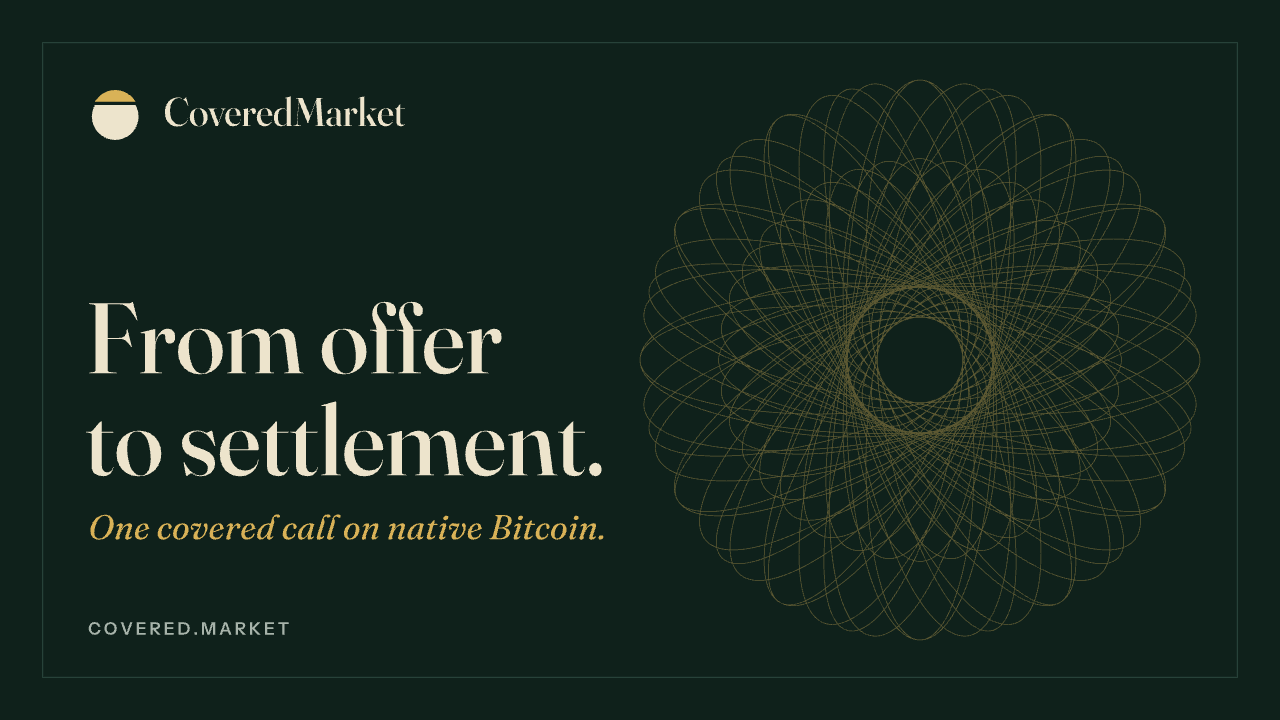
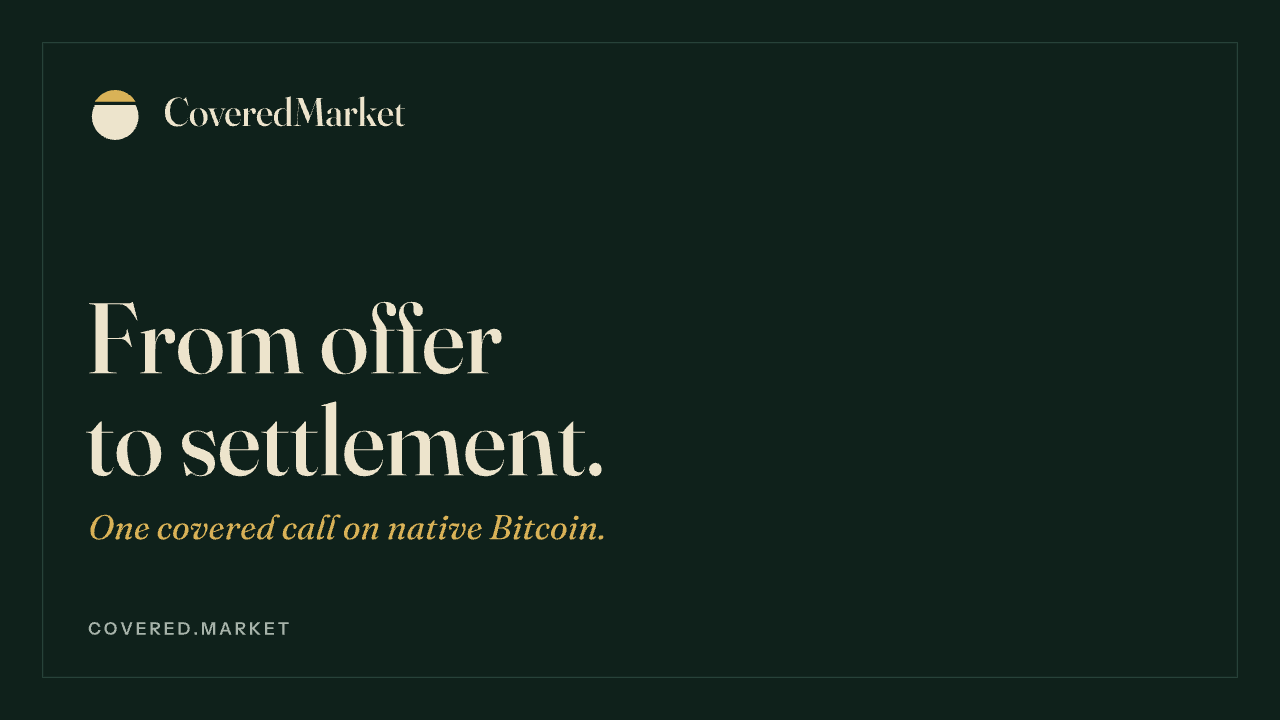
Landing: the rosette moves from the film poster to the page
The rosette is now the page's brand mark: whole and faint in the hero's top-right corner, behind the content
and inside the hero at every width. The film's poster on the page is the new plain version
(video-poster-plain, generated alongside the full one), so the rosette is not shown twice; the full poster
stays the video's thumbnail. The play button keeps its place, where the full poster's rosette has its eye.

diff --git a/web/src/landing.css b/web/src/landing.css
@@ -60,8 +60,8 @@
 .ld-hero-film { position: relative; margin: 0; min-width: 0; }
 .ld-hero-film > figcaption { position: absolute; top: 100%; left: 0; right: 0; margin-top: 12px; }
 
-/* film: the hero's player (HeroFilm). The poster is brand/assets/Social/video-poster (also the video's thumbnail);
-   the play button sits in its rosette's eye, at POSTER_EYE in gen_assets.py. */
+/* film: the hero's player (HeroFilm). The poster is brand/assets/Social/video-poster-plain; the play button sits
+   where the full poster's rosette has its eye (POSTER_EYE in gen_assets.py), so both versions share one layout. */
 .ld-film { position: relative; aspect-ratio: 16 / 9; background: #0f211b; overflow: hidden; box-shadow: 0 24px 48px -24px #132a2399; }
 .ld-film > img { position: absolute; inset: 0; width: 100%; height: 100%; display: block; }
 .ld-film iframe { position: absolute; inset: 0; width: 100%; height: 100%; border: 0; display: block; }
@@ -200,3 +200,8 @@ button.ld-play:focus-visible { outline: 2px solid #d9b257; outline-offset: 4px; 
   .ld-bounty > div:nth-child(2n+1) { padding-top: 16px; }
 }
 @media (prefers-reduced-motion: reduce) { .ld * { transition: none !important; } }
+
+/* The rosette as the page's brand mark: whole, faint, in the hero's top-right corner, behind the content. */
+.ld { position: relative; isolation: isolate; }
+.ld-seal { position: absolute; top: 96px; right: 24px; width: clamp(240px, 33vw, 480px); opacity: .1; z-index: -1; pointer-events: none; }
+@media (max-width: 599px) { .ld-seal { top: 84px; right: 12px; width: 220px; opacity: .08; } }

diff --git a/web/src/pages/Landing.tsx b/web/src/pages/Landing.tsx
@@ -45,9 +45,9 @@ function useHeroCert() {
   return cert;
 }
 
-/** The film as an embedded player (FILM_URL). Before play it shows the film's poster, which is also the video's
- *  thumbnail (brand/assets/Social/video-poster-*). Pressing play swaps in the player, with its own controls and full
- *  screen. Without a film yet the poster stands on its own and the play mark is decoration. */
+/** The film as an embedded player (FILM_URL). Before play it shows the film's poster: the plain version of
+ *  brand/assets/Social/video-poster-*, since the page carries the rosette itself (.ld-seal). Pressing play swaps in
+ *  the player, with its own controls and full screen. Without a film yet the play mark is decoration. */
 function HeroFilm() {
   const url = filmUrl();
   const [playing, setPlaying] = useState(false);
@@ -186,6 +186,7 @@ export function Landing() {
   const nav: [string, string][] = [["how", "How it works"], ["returns", "Returns"], ["compare", "Compare"], ["trust", "Security"], ["stack", "Built with"], ["faq", "FAQ"]];
   return (
     <div className="ld">
+      <img className="ld-seal" src="/site/rosette.svg" alt="" aria-hidden="true" />
       <header className="ld-head">
         <div className="ld-wrap">
           <a href="/" aria-label="CoveredMarket home" className="ld-logo-link"><img className="ld-logo" src="/site/lockup-32.svg" alt="CoveredMarket" /></a>

diff --git a/brand/tools/gen_assets.py b/brand/tools/gen_assets.py
@@ -325,15 +325,16 @@ def square():
     return svg(w, h, body, bg=VAULT)
 write('Social/square-card-1080.svg', square())
 
-# The film's poster, 1920x1080: the landing page's player shows it before play, and it is the video's thumbnail
-# (rendered to PNG). The rosette sits whole on the right; the page puts its play button in the rosette's eye
-# (POSTER_EYE, as fractions of the width and height). Title and subtitle are fitted to the space left of it.
+# The film's poster, 1920x1080, and the video's thumbnail (rendered to PNG). The rosette sits whole on the right
+# and a player puts its play button in the rosette's eye (POSTER_EYE, as fractions of the width and height). The
+# plain version leaves the rosette out, for pages that carry the rosette themselves (the landing page). Title and
+# subtitle are fitted to the space left of the rosette either way.
 POSTER_EYE = (0.71875, 0.5)
-def poster():
+def poster(with_rosette=True):
     w, h = 1920, 1080
     room = h / 2 - 64 - 56
     cx, cy = w * POSTER_EYE[0], h * POSTER_EYE[1]
-    body = f'<g opacity="0.38">' + rosette(cx, cy, room / ROSETTE_REACH, GILT_V, rings=9, sw=1.1) + '</g>'
+    body = (f'<g opacity="0.38">' + rosette(cx, cy, room / ROSETTE_REACH, GILT_V, rings=9, sw=1.1) + '</g>') if with_rosette else ''
     body += f'<rect x="64" y="64" width="{w-128}" height="{h-128}" fill="none" stroke="{RULE_V}" stroke-width="1.5"/>'
     body += f'<g transform="translate(128,128) scale(1.4)">' + mark(ink=INK_V, coin=INK_V, finial=GILT_V, two_tone=True) + '</g>'
     wp, _ = wordmark(128 + 64 * 1.4 + 28, 128 + 64 * 1.4 * 0.68, 60, INK_V)
@@ -352,4 +353,5 @@ def poster():
     d, _ = text_path('COVERED.MARKET', *SANS_B, 26, left + 4, h - 128, tracking=0.16); body += f'<path d="{d}" fill="{MUTED_V}"/>'
     return svg(w, h, body, bg=VAULT)
 write('Social/video-poster-1920x1080.svg', poster())
+write('Social/video-poster-plain-1920x1080.svg', poster(with_rosette=False))
 print('done')
